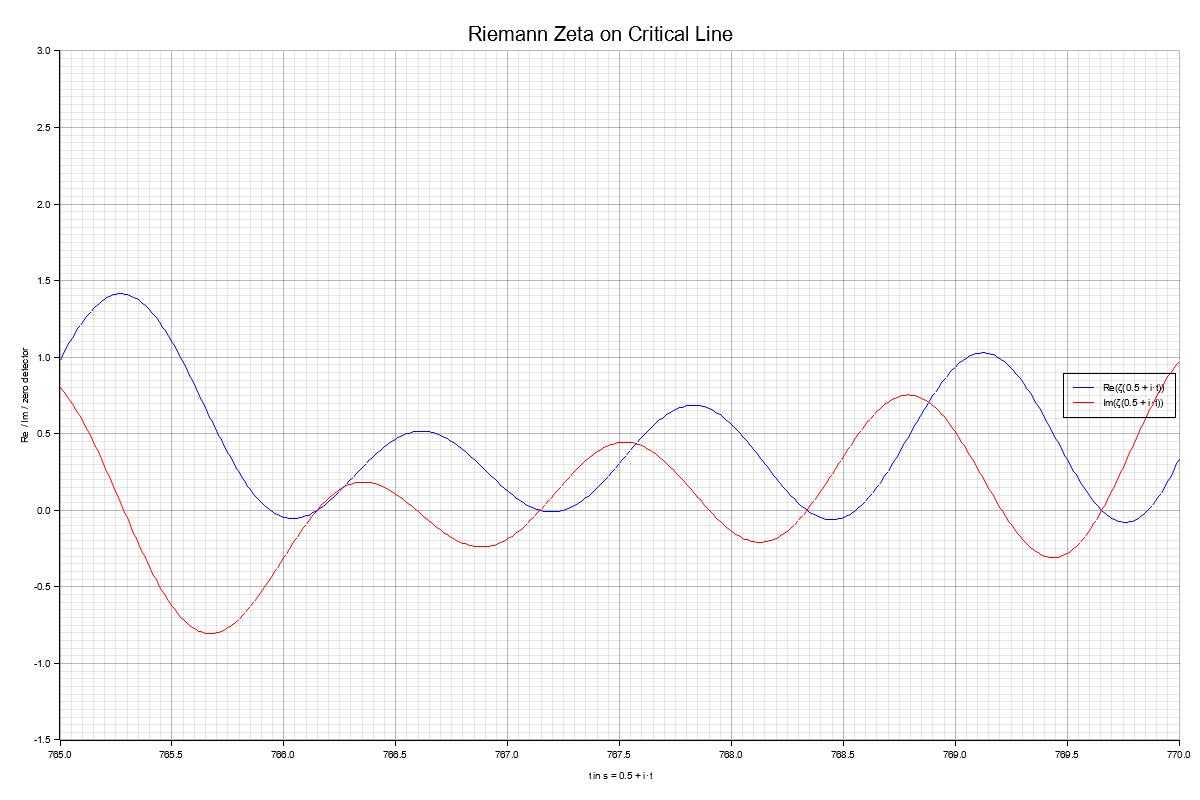
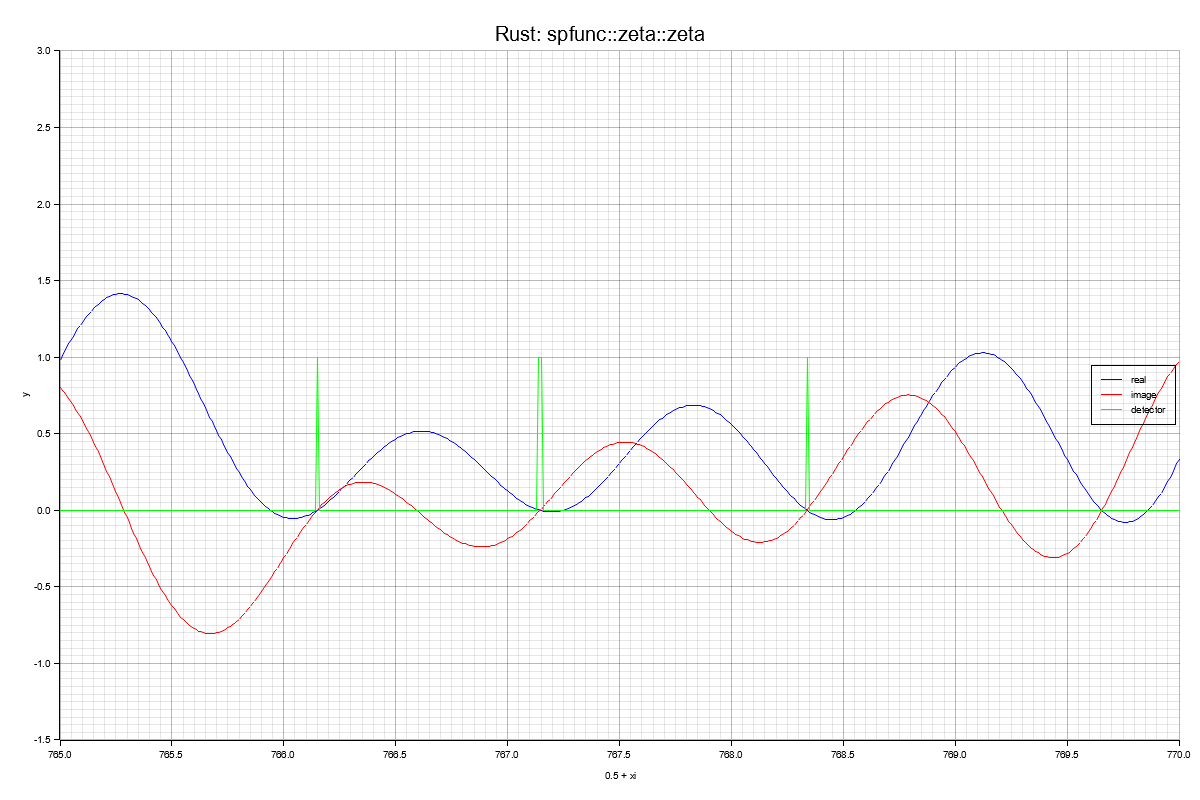
add fig refs #2

diff --git a/examples/critical_line.rs b/examples/critical_line.rs
@@ -6,22 +6,22 @@ fn main() -> Result<(), Box<dyn std::error::Error>> {
     let t_start = 765.0;
     let t_end = 770.0;
     let t_step = 0.01;
-    let epsilon = 1e-6;
+    let epsilon = 1e-4;
 
     let root = BitMapBackend::new("zeta_critical_line.png", (1200, 800)).into_drawing_area();
     root.fill(&WHITE)?;
 
     // Scale plotting area
     let mut chart = ChartBuilder::on(&root)
-        .caption("Riemann Zeta on Critical Line", ("sans-serif", 25))
+        .caption("Rust: spfunc::zeta::zeta", ("sans-serif", 25))
         .margin(20)
         .x_label_area_size(40)
         .y_label_area_size(40)
         .build_cartesian_2d(t_start..t_end, -1.5f64..3.0f64)?;
 
     chart.configure_mesh()
-        .x_desc("t in s = 0.5 + i·t")
-        .y_desc("Re / Im / zero detector")
+        .x_desc("0.5 + xi")
+        .y_desc("y")
         .draw()?;
 
     let mut samples_re = Vec::new();
@@ -38,23 +38,30 @@ fn main() -> Result<(), Box<dyn std::error::Error>> {
 
         // Spike |ζ(s)| is nearly zero.
         let norm_sq = z.re * z.re + z.im * z.im;
-        if norm_sq < epsilon * epsilon {
-            zero_spikes.push(vec![(t, -30.0), (t, 30.0)]);
+        if norm_sq < epsilon {
+            // zero_spikes.push(vec![(t, -30.0), (t, 30.0)]);
+            zero_spikes.push((t, 1.0))
+        } else {
+            zero_spikes.push((t, 0.0))
         }
     }
 
     // Plot
    chart.draw_series(LineSeries::new(samples_re, &BLUE))?
-        .label("Re(ζ(0.5 + i·t))")
+        .label("real")
         .legend(|(x, y)| PathElement::new([(x, y), (x + 20, y)], &BLUE));
 
     chart.draw_series(LineSeries::new(samples_im, &RED))?
-        .label("Im(ζ(0.5 + i·t))")
+        .label("image")
         .legend(|(x, y)| PathElement::new([(x, y), (x + 20, y)], &RED));
 
-    for spike in zero_spikes {
-        chart.draw_series(LineSeries::new(spike, &GREEN))?;
-    }
+    //for spike in zero_spikes {
+    //    chart.draw_series(LineSeries::new(spike, &GREEN))?;
+    //}
+    chart.draw_series(LineSeries::new(zero_spikes, &GREEN))?
+        .label("detector")
+        .legend(|(x, y)| PathElement::new([(x, y), (x + 20, y)], &GREEN));
+
 
     chart.configure_series_labels().border_style(&BLACK).draw()?;
 
